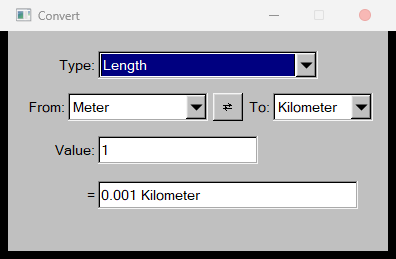
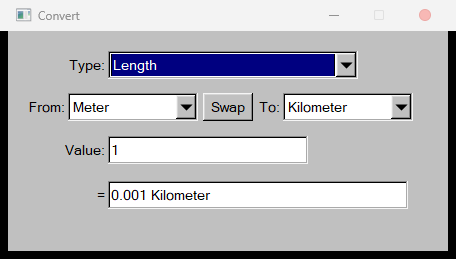
v0.2.2: fix swap button glyph rendering as tofu
The swap button used the '⇄' character, which is not in egui's (or fltk's) default fonts, so it rendered as a missing-glyph box. Replaced with the plain text 'Swap' in all three front-ends and adjusted the fltk layout. Screenshots refreshed.

diff --git a/fltk/src/main.rs b/fltk/src/main.rs
@@ -40,22 +40,22 @@ fn refresh(state: &Rc<RefCell<State>>, input: &Input, result: &mut Output) {
 
 fn main() {
     let app = app::App::default();
-    let mut wind = Window::new(120, 120, 380, 220, "Convert");
+    let mut wind = Window::new(120, 120, 440, 220, "Convert");
 
-    let mut cat = Choice::new(90, 20, 220, 28, "Type:");
+    let mut cat = Choice::new(100, 20, 250, 28, "Type:");
     for c in ALL_CATEGORIES {
         cat.add_choice(c.label());
     }
     cat.set_value(0);
 
-    let mut from = Choice::new(60, 62, 140, 28, "From:");
-    let mut swap = Button::new(205, 62, 30, 28, "⇄");
-    let mut to = Choice::new(265, 62, 100, 28, "To:");
+    let mut from = Choice::new(60, 62, 130, 28, "From:");
+    let mut swap = Button::new(195, 62, 50, 28, "Swap");
+    let mut to = Choice::new(275, 62, 130, 28, "To:");
 
-    let mut value = Input::new(90, 105, 160, 28, "Value:");
+    let mut value = Input::new(100, 105, 200, 28, "Value:");
     value.set_value("1");
 
-    let mut result = Output::new(90, 150, 260, 28, "=");
+    let mut result = Output::new(100, 150, 300, 28, "=");
 
     // Populate the initial (Length) unit lists.
     for u in Category::Length.units() {

diff --git a/egui/src/main.rs b/egui/src/main.rs
@@ -83,7 +83,7 @@ impl eframe::App for Converter {
                     }
                 });
 
-            if ui.button("⇄").clicked() {
+            if ui.button("Swap").clicked() {
                 std::mem::swap(&mut self.from_index, &mut self.to_index);
             }
 
